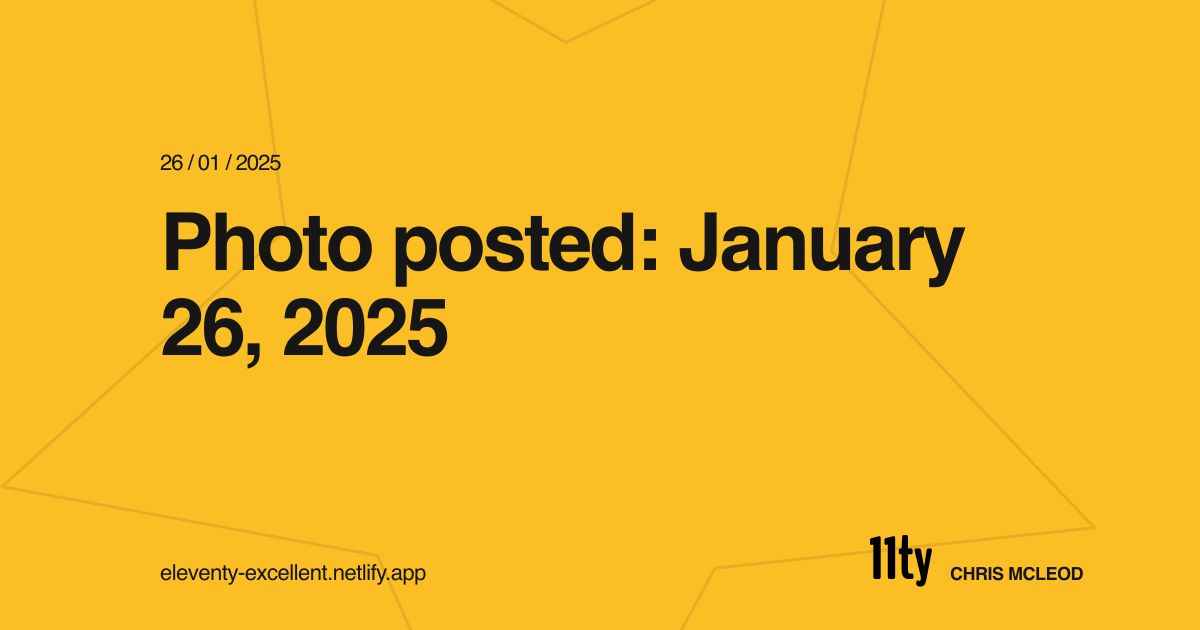
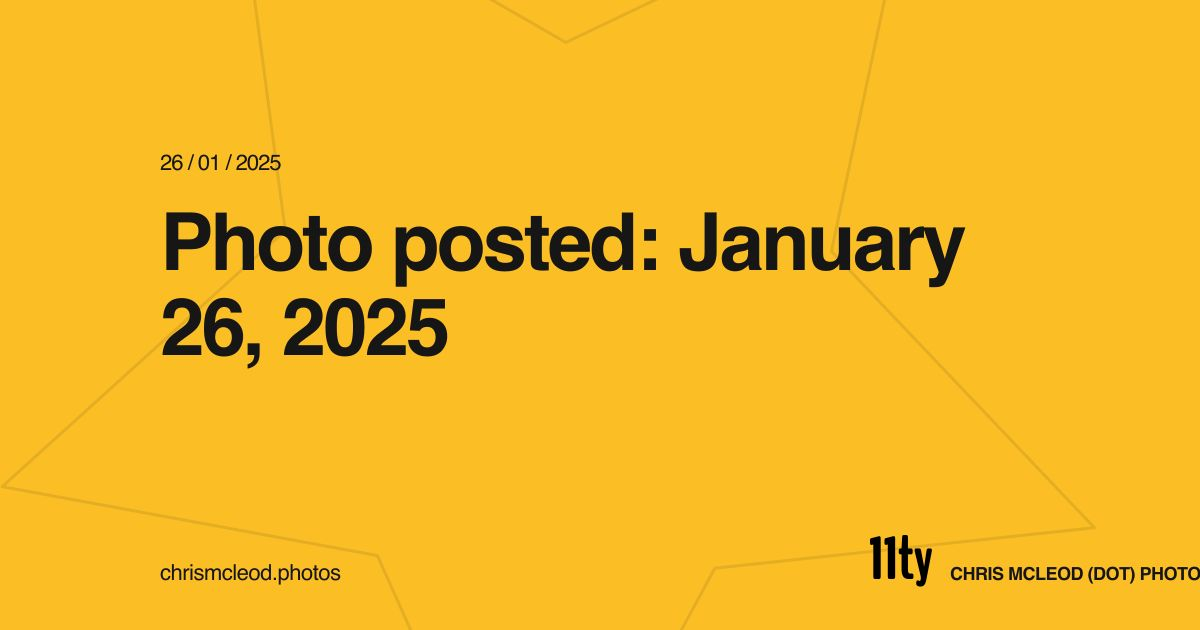
a bunch more customisations

Changed region(s): [[0.1233, 0.8746, 0.37, 0.9349], [0.8942, 0.8746, 1.0, 0.9349]]

diff --git a/src/_data/meta.js b/src/_data/meta.js
@@ -1,4 +1,4 @@
-export const url = process.env.URL || 'http://localhost:8080';
+export const url = process.env.URL || 'https://chrismcleod.photos';
 export const siteName = 'Chris McLeod (dot) photos';
 export const siteDescription = 'Eleventy starter for building modern, resilient websites';
 export const siteType = 'Person'; // schema
@@ -8,9 +8,9 @@ export const skipContent = 'Skip to content';
 export const author = {
   name: 'Chris McLeod', // i.e. Lene Saile - page / blog author's name. Must be set.
   avatar: '/icon-512x512.png', // path to the author's avatar. In this case just using a favicon.
-  email: 'hola@lenesaile.com', // i.e. hola@lenesaile.com - email of the author
+  email: 'feedback@chrismcleod.dev', // i.e. hola@lenesaile.com - email of the author
   website: 'https://chrismcleod.dev', // i.e. https.://www.lenesaile.com - the personal site of the author
-  fediverse: '@lene@front-end.social' // used for highlighting journalism on the fediverse. Can be Mastodon, Flipboard, Threads, WordPress (with the ActivityPub plugin installed), PeerTube, Pixelfed, etc. https://blog.joinmastodon.org/2024/07/highlighting-journalism-on-mastodon/
+  fediverse: '@chrisplusplus@social.lol' // used for highlighting journalism on the fediverse. Can be Mastodon, Flipboard, Threads, WordPress (with the ActivityPub plugin installed), PeerTube, Pixelfed, etc. https://blog.joinmastodon.org/2024/07/highlighting-journalism-on-mastodon/
 };
 export const creator = {
   name: 'Lene Saile', // i.e. Lene Saile - creator's (developer) name.
@@ -24,11 +24,11 @@ export const themeLight = '#f8f8f8'; // used for meta tag theme-color, if light 
 export const themeDark = '#2e2e2e'; // used for meta tag theme-color, if dark colors are prefered. best use value set for dark bg
 export const opengraph_default = '/assets/images/template/opengraph-default.jpg'; // fallback/default meta image
 export const opengraph_default_alt =
-  "Visible content: An Eleventy starter with CUBE CSS, Cube CSS, Every Layout, Design Tokens and Tailwind for uitility classes. A workflow for building modern and resilient websites, introduced by Andy Bell's project buildexcellentwebsit.es"; // alt text for default meta image"
+  "Visible content: A photo taken by Chris McLeod"; // alt text for default meta image"
 export const blog = {
   // RSS feed
-  name: 'My Web Development Blog',
-  description: 'Tell the word what you are writing about in your blog. It will show up on feed readers.',
+  name: "Chris McLeod's Photoblog",
+  description: 'Sometimes I take pictures and share them on the internet.',
   // feed links are looped over in the head. You may add more to the array.
   feedLinks: [
     {
@@ -47,7 +47,7 @@ export const blog = {
   tagPlural: 'Tags',
   tagMore: 'More tags:',
   // pagination
-  paginationLabel: 'Blog',
+  paginationLabel: 'Posts',
   paginationPage: 'Page',
   paginationPrevious: 'Previous',
   paginationNext: 'Next',
@@ -77,7 +77,7 @@ export const greenweb = {
   // this goes into src/common/greenweb.njk
   providers: {
     // if you want to add more than one, edit the array directly.
-    domain: 'netlify.com',
+    domain: 'azure.com',
     service: 'cdn'
   },
   credentials: {

diff --git a/src/assets/css/global/compositions/grid.css b/src/assets/css/global/compositions/grid.css
@@ -14,6 +14,33 @@ ideally, as a minimum.
 --grid-placement (auto-fill): Set either auto-fit or auto-fill
 to change how empty grid tracks are handled */
 
+.grid--image-text {
+  display: grid;
+  gap: var(--gutter, var(--space-s-l));
+  background: var(--color-crust);
+  padding: var(--gutter, var(--space-s-l));
+  border-radius: var(--border-radius);
+  border: 2px solid var(--color-text);
+}
+
+@media (min-width: 768px) {
+  .grid--image-text {
+    grid-template-columns: repeat(4, 1fr);
+    grid-auto-rows: min-content;
+  }
+
+  .grid--image-text picture {
+    grid-column: 1 / 2;
+    grid-row: 1 / 3;
+    align-self: start;
+  }
+
+  .grid--image-text p, .grid--image-text h2 {
+    grid-column: 2 / 5;
+    align-self: start;
+  }
+}
+
 .grid {
   display: grid;
   grid-template-columns: repeat(
@@ -37,3 +64,4 @@ to change how empty grid tracks are handled */
   --grid-placement: auto-fit;
   --grid-min-item-size: clamp(16rem, 33%, 20rem);
 }
+

diff --git a/src/assets/css/global/base/variables.css b/src/assets/css/global/base/variables.css
@@ -10,6 +10,7 @@
   --tracking-s: -0.075ch;
   --tracking-wide: 0.04ch;
   --stroke: 1px solid var(--color-bg-accent);
+  --border-radius: 0.5rem;
 
   --gradient-rainbow: linear-gradient(90deg, #cf4662 10%, #fbbe25 30%, #62c95c 50%, #08bccb 75%, #a977d5 90%);
   --gradient-conic: conic-gradient(
@@ -161,4 +162,8 @@
   --color-rosewater: var(--color-machiatto-rosewater);
   --color-maroon: var(--color-machiatto-maroon);
   --color-sapphire: var(--color-machiatto-sapphire);
+}
+
+.rounded-full {
+  border-radius: 9999px;
 }

diff --git a/src/assets/css/local/pagination.css b/src/assets/css/local/pagination.css
@@ -37,5 +37,5 @@
 .pagination li:has(a[aria-current='page']) {
   --pagination-bg: var(--color-secondary);
   --pagination-border: var(--color-secondary);
-  --pagination-text: var(--color-light);
+  --pagination-text: var(--color-base);
 }

diff --git a/src/_data/navigation.js b/src/_data/navigation.js
@@ -8,7 +8,7 @@ export default {
     },
     {
       text: 'Discover',
-      url: '/discover/'
+      url: '/tags/'
     },
     {
       text: 'Blog',

diff --git a/src/posts/9a317ac9-bc56-433e-bd48-61726c718aab.md b/src/posts/9a317ac9-bc56-433e-bd48-61726c718aab.md
@@ -6,7 +6,7 @@ alt: A digital tablet displays an "Activity Log" screen with sections showing a
   showing days with logged activities. Recent entries list specific tasks
   performed on various days, including building and painting activities. The
   background features a gradient from yellow to pink.
-date: 2024-01-19T22:29
+date: 2025-01-19T22:29
 tags:
   - ipad
   - screenshot
